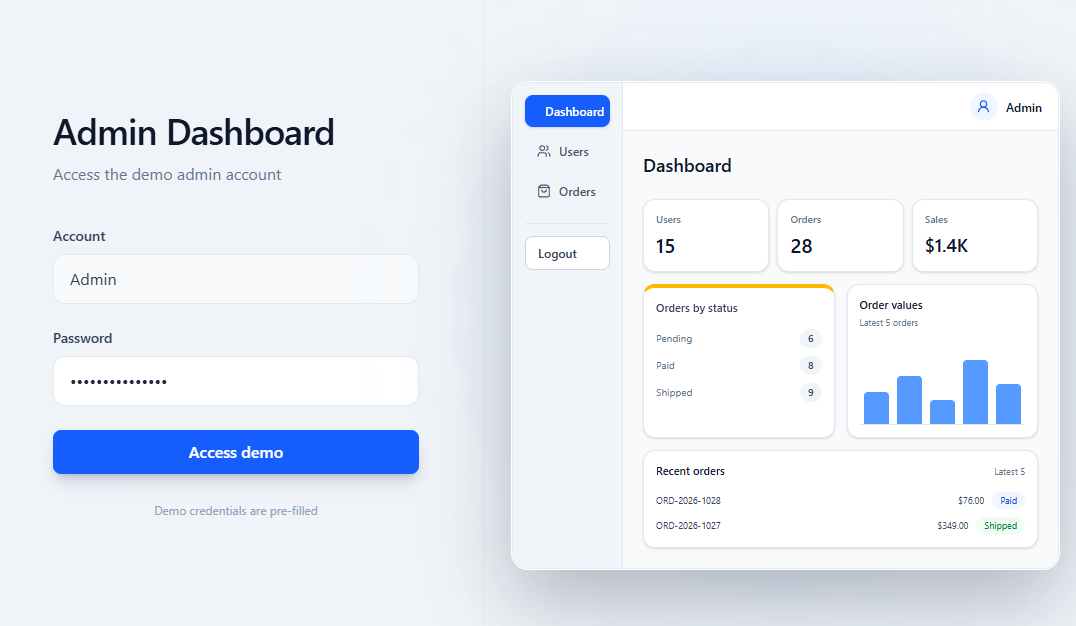
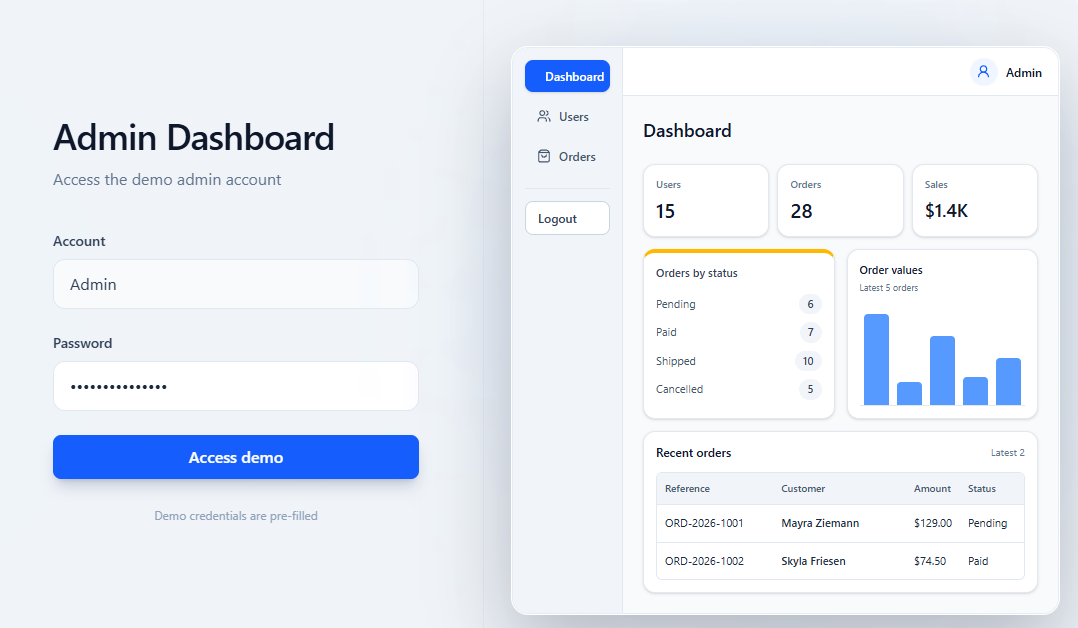
feat: refine dashboard UI and update README

diff --git a/app/(dashboard)/dashboard/page.tsx b/app/(dashboard)/dashboard/page.tsx
@@ -5,30 +5,26 @@ import OrderValueChart from "./OrderValueChart";
 
 // Displays global statistics and provides a logout action
 const page = async () => {
- 
-
-
-const [recentOrders, usersCount, orderStats] = await Promise.all([
-  prisma.order.findMany({
-    take: 5,
-    orderBy: [{ createdAt: "desc" }, { id: "desc" }],
-    include: {
-      user: {
-        select: {
-          email: true,
+  const [recentOrders, usersCount, orderStats] = await Promise.all([
+    prisma.order.findMany({
+      take: 5,
+      orderBy: [{ createdAt: "desc" }, { id: "desc" }],
+      include: {
+        user: {
+          select: {
+            name: true,
+            email: true,
+          },
         },
       },
-    },
-  }),
-  prisma.user.count(),
-  prisma.order.groupBy({
-    by: ["status"],
-    _count: { status: true },
-    _sum: { amountCents: true },
-  }),
-]);
-
-
+    }),
+    prisma.user.count(),
+    prisma.order.groupBy({
+      by: ["status"],
+      _count: { status: true },
+      _sum: { amountCents: true },
+    }),
+  ]);
 
   const ordersCount = orderStats.reduce(
     (total, item) => total + item._count.status,
@@ -47,23 +43,21 @@ const [recentOrders, usersCount, orderStats] = await Promise.all([
   }).format(paidSalesCents / 100);
 
   // Values of the latest orders for the chart
- const orderValues = [...recentOrders]
-  .reverse()
-  .map((order) => ({
-    reference: order.reference.replace("ORD-SEED-", "#"),
+  const orderValues = [...recentOrders].reverse().map((order) => ({
+    reference: order.reference,
     amount: (order.amountCents ?? 0) / 100,
   }));
 
   // Keep statuses in workflow order
-  const statusOrder = ["pending", "paid", "shipped"];
+  const statusOrder = ["pending", "paid", "shipped", "cancelled"];
 
   ordersByStatus.sort(
     (a, b) => statusOrder.indexOf(a.status) - statusOrder.indexOf(b.status),
   );
 
   return (
-    <div className="fade-in-up">
-      <h1 className="mb-8 text-3xl font-bold tracking-tight text-gray-800">
+    <div className="fade-in-up lg:ml-8">
+     <h1 className="mb-6 text-2xl font-bold tracking-tight text-slate-950">
         Dashboard
       </h1>
 
@@ -73,7 +67,7 @@ const [recentOrders, usersCount, orderStats] = await Promise.all([
         <div className="rounded-xl border border-slate-200 bg-white p-5 shadow-sm">
           <div className="flex items-center justify-between">
             <div>
-              <p className="text-sm font-medium text-slate-500">Users</p>
+              <p className="text-base font-medium text-slate-500">Users</p>
               <p className="mt-2 text-2xl font-semibold text-slate-900">
                 {usersCount}
               </p>
@@ -89,7 +83,7 @@ const [recentOrders, usersCount, orderStats] = await Promise.all([
         <div className="rounded-xl border border-slate-200 bg-white p-5 shadow-sm">
           <div className="flex items-center justify-between">
             <div>
-              <p className="text-sm font-medium text-slate-500">Orders</p>
+              <p className="text-base font-medium text-slate-500">Orders</p>
               <p className="mt-2 text-2xl font-semibold text-slate-900">
                 {ordersCount}
               </p>
@@ -105,7 +99,7 @@ const [recentOrders, usersCount, orderStats] = await Promise.all([
         <div className="rounded-xl border border-slate-200 bg-white p-5 shadow-sm">
           <div className="flex items-center justify-between">
             <div>
-              <p className="text-sm font-medium text-slate-500">Sales</p>
+              <p className="text-base font-medium text-slate-500">Sales</p>
               <p className="mt-2 text-2xl font-semibold text-slate-900">
                 {sales}
               </p>
@@ -121,7 +115,7 @@ const [recentOrders, usersCount, orderStats] = await Promise.all([
       {/* Orders breakdown by status */}
       <div className="grid max-w-4xl gap-6 lg:grid-cols-2">
         <div className="rounded-xl  border border-slate-200 border-t-4 border-t-amber-400 bg-white p-5 shadow-sm">
-          <h2 className="text-sm font-semibold text-slate-700">
+          <h2 className="text-xl font-semibold text-slate-900">
             Orders by status
           </h2>
 
@@ -131,11 +125,11 @@ const [recentOrders, usersCount, orderStats] = await Promise.all([
                 key={item.status}
                 className="flex items-center justify-between"
               >
-                <span className="text-sm font-medium capitalize text-slate-600">
+                <span className="text-base font-medium capitalize text-slate-600">
                   {item.status}
                 </span>
 
-                <span className="flex min-w-8 items-center justify-center rounded-full bg-slate-100 px-2.5 py-1 text-sm font-semibold text-slate-700">
+                <span className="flex min-w-8 items-center justify-center rounded-full bg-slate-100 px-2.5 py-1 text-base font-semibold text-slate-700">
                   {item._count.status}
                 </span>
               </div>
@@ -145,7 +139,7 @@ const [recentOrders, usersCount, orderStats] = await Promise.all([
         {/* Order values chart */}
         <div className="rounded-xl border border-slate-200 bg-white p-5 shadow-sm">
           <div className="mb-5">
-            <h2 className="text-base font-semibold text-slate-900">
+            <h2 className="text-xl font-semibold text-slate-900">
               Order values
             </h2>
             <p className="mt-1 text-sm text-slate-500">Latest 5 orders</p>
@@ -158,52 +152,47 @@ const [recentOrders, usersCount, orderStats] = await Promise.all([
       {/* Recent orders */}
       <div className="mt-6 max-w-4xl rounded-xl border border-slate-200 bg-white p-5 shadow-sm">
         <div className="mb-4 flex items-center justify-between">
-          <h2 className="text-base font-semibold text-slate-900">
+          <h2 className="text-xl font-semibold text-slate-900">
             Recent orders
           </h2>
 
           <span className="text-sm text-slate-500">Latest 5</span>
         </div>
 
-        <div className="divide-y divide-slate-100">
-          {recentOrders.map((order) => (
-            <div
-              key={order.id}
-              className="grid items-center gap-4 py-3 text-sm md:grid-cols-[140px_1fr_100px_100px]"
-            >
-              {/* Reference */}
-              <span className="font-medium text-slate-800">
-                {order.reference}
-              </span>
+        <div className="overflow-hidden rounded-lg border border-slate-200">
+          <div className="hidden grid-cols-[1fr_1.5fr_0.8fr_0.8fr] gap-4 border-b border-slate-200 bg-slate-100 px-4 py-3 text-[15px] font-semibold text-slate-600 md:grid">
+            <span>Reference</span>
+            <span>Customer</span>
+            <span>Amount</span>
+            <span>Status</span>
+          </div>
 
-              {/* Customer */}
-              <span className="truncate text-slate-600">
-                {order.user.email}
-              </span>
+          <div className="divide-y divide-slate-200">
+            {recentOrders.map((order) => (
+              <div
+                key={order.id}
+                className="grid grid-cols-2 items-center gap-4 px-4 py-4 text-base md:grid-cols-[1fr_1.5fr_0.8fr_0.8fr]"
+              >
+                <span className="break-words font-medium text-slate-800">
+                  {order.reference}
+                </span>
 
-              {/* Amount */}
-              <span className="text-slate-700">
-                {order.amountCents === null
-                  ? "Not set"
-                  : `$${(order.amountCents / 100).toFixed(2)}`}
-              </span>
+                <span className="min-w-0 break-words font-medium text-slate-800">
+                  {order.user.name?.trim() || order.user.email}
+                </span>
 
-              {/* Status */}
-              <div className="flex justify-center">
-                <span
-                  className={`w-fit rounded-full px-3 py-1 text-xs font-medium capitalize ${
-                    order.status === "pending"
-                      ? "bg-amber-50 text-amber-700"
-                      : order.status === "paid"
-                        ? "bg-blue-50 text-blue-700"
-                        : "bg-green-50 text-green-700"
-                  }`}
-                >
+                <span className="text-slate-700">
+                  {order.amountCents === null
+                    ? "Not set"
+                    : `$${(order.amountCents / 100).toFixed(2)}`}
+                </span>
+
+                <span className="font-medium capitalize text-slate-700">
                   {order.status}
                 </span>
               </div>
-            </div>
-          ))}
+            ))}
+          </div>
         </div>
       </div>
     </div>

diff --git a/app/login/page.tsx b/app/login/page.tsx
@@ -186,27 +186,23 @@ export default async function Page({
                         Orders by status
                       </p>
 
-                      <div className="mt-3 space-y-2 text-[10px]">
-                        <div className="flex items-center justify-between">
-                          <span className="text-slate-500">Pending</span>
-                          <span className="rounded-full bg-slate-100 px-2 py-0.5 font-medium text-slate-700">
-                            6
-                          </span>
-                        </div>
-
-                        <div className="flex items-center justify-between">
-                          <span className="text-slate-500">Paid</span>
-                          <span className="rounded-full bg-slate-100 px-2 py-0.5 font-medium text-slate-700">
-                            8
-                          </span>
-                        </div>
-
-                        <div className="flex items-center justify-between">
-                          <span className="text-slate-500">Shipped</span>
-                          <span className="rounded-full bg-slate-100 px-2 py-0.5 font-medium text-slate-700">
-                            9
-                          </span>
-                        </div>
+                      <div className="mt-3 space-y-2 text-[11px]">
+                        {[
+                          { status: "Pending", count: 6 },
+                          { status: "Paid", count: 7 },
+                          { status: "Shipped", count: 10 },
+                          { status: "Cancelled", count: 5 },
+                        ].map(({ status, count }) => (
+                          <div
+                            key={status}
+                            className="flex items-center justify-between"
+                          >
+                            <span className="text-slate-600">{status}</span>
+                            <span className="rounded-full bg-slate-100 px-2 py-0.5 font-medium text-slate-700">
+                              {count}
+                            </span>
+                          </div>
+                        ))}
                       </div>
                     </div>
 
@@ -218,45 +214,46 @@ export default async function Page({
                         Latest 5 orders
                       </p>
 
-                      <div className="mt-4 flex h-20 items-end gap-2 border-b border-slate-200 px-1">
-                        <div className="h-8 flex-1 rounded-t bg-blue-500/80" />
-                        <div className="h-12 flex-1 rounded-t bg-blue-500/80" />
-                        <div className="h-6 flex-1 rounded-t bg-blue-500/80" />
-                        <div className="h-16 flex-1 rounded-t bg-blue-500/80" />
-                        <div className="h-10 flex-1 rounded-t bg-blue-500/80" />
+                      <div className="mt-4 flex h-24 items-end gap-2 border-b border-slate-200 px-1">
+                        <div className="h-[96%] flex-1 rounded-t bg-blue-500/80" />
+                        <div className="h-[24%] flex-1 rounded-t bg-blue-500/80" />
+                        <div className="h-[73%] flex-1 rounded-t bg-blue-500/80" />
+                        <div className="h-[29%] flex-1 rounded-t bg-blue-500/80" />
+                        <div className="h-[50%] flex-1 rounded-t bg-blue-500/80" />
                       </div>
                     </div>
                   </div>
 
                   <div className="mt-3 rounded-xl border border-slate-200 bg-white p-3 shadow-sm">
                     <div className="flex items-center justify-between">
-                      <p className="text-[11px] font-semibold text-slate-900">
+                      <p className="text-xs font-semibold text-slate-900">
                         Recent orders
                       </p>
-                      <span className="text-[9px] text-slate-500">
-                        Latest 5
+                      <span className="text-[10px] text-slate-500">
+                        Latest 2
                       </span>
                     </div>
 
-                    <div className="mt-3 space-y-2 text-[9px]">
-                      <div className="grid grid-cols-[1fr_auto_auto] items-center gap-2">
-                        <span className="truncate text-slate-700">
-                          ORD-2026-1028
-                        </span>
-                        <span className="text-slate-600">$76.00</span>
-                        <span className="rounded-full bg-blue-50 px-2 py-0.5 text-blue-700">
-                          Paid
-                        </span>
+                    <div className="mt-3 overflow-hidden rounded-md border border-slate-200">
+                      <div className="grid grid-cols-[minmax(0,1fr)_minmax(0,1.15fr)_48px_48px] items-center gap-1.5 bg-slate-100 px-2 py-2 text-[10px] font-semibold text-slate-600">
+                        <span>Reference</span>
+                        <span>Customer</span>
+                        <span>Amount</span>
+                        <span>Status</span>
                       </div>
 
-                      <div className="grid grid-cols-[1fr_auto_auto] items-center gap-2">
-                        <span className="truncate text-slate-700">
-                          ORD-2026-1027
-                        </span>
-                        <span className="text-slate-600">$349.00</span>
-                        <span className="rounded-full bg-green-50 px-2 py-0.5 text-green-700">
-                          Shipped
-                        </span>
+                      <div className="grid grid-cols-[minmax(0,1fr)_minmax(0,1.15fr)_48px_48px] items-center gap-1.5 border-t border-slate-200 px-2 py-2.5 text-[11px] text-slate-800">
+                        <span className="break-words">ORD-2026-1001</span>
+                        <span className="font-medium">Mayra Ziemann</span>
+                        <span>$129.00</span>
+                        <span>Pending</span>
+                      </div>
+
+                      <div className="grid grid-cols-[minmax(0,1fr)_minmax(0,1.15fr)_48px_48px] items-center gap-1.5 border-t border-slate-200 px-2 py-2.5 text-[11px] text-slate-800">
+                        <span className="break-words">ORD-2026-1002</span>
+                        <span className="font-medium">Skyla Friesen</span>
+                        <span>$74.50</span>
+                        <span>Paid</span>
                       </div>
                     </div>
                   </div>

diff --git a/app/(dashboard)/dashboard/page.test.tsx b/app/(dashboard)/dashboard/page.test.tsx
@@ -111,6 +111,7 @@ test("displays recent orders", async () => {
       amountCents: 3490,
       status: "shipped",
       user: {
+        name: "Jack Doe",
         email: "jack.doe@example.com",
       },
     },
@@ -120,6 +121,6 @@ test("displays recent orders", async () => {
 
   expect(screen.getByText("Recent orders")).toBeInTheDocument();
   expect(screen.getByText("ORD-SEED-005")).toBeInTheDocument();
-  expect(screen.getByText("jack.doe@example.com")).toBeInTheDocument();
+  expect(screen.getByText("Jack Doe")).toBeInTheDocument();
   expect(screen.getByText("$34.90")).toBeInTheDocument();
 });

diff --git a/app/(dashboard)/dashboard/OrderValueChart.tsx b/app/(dashboard)/dashboard/OrderValueChart.tsx
@@ -25,12 +25,7 @@ export default function OrderValueChart({
       <BarChart data={data}>
         <CartesianGrid vertical={false} strokeDasharray="3 3" />
 
-        <XAxis
-          dataKey="reference"
-          tickLine={false}
-          axisLine={false}
-          fontSize={11}
-        />
+       <XAxis dataKey="reference" hide />
 
         <YAxis
           tickLine={false}

diff --git a/README.md b/README.md
@@ -16,8 +16,8 @@ Admin dashboard built with Next.js, TypeScript, Prisma and PostgreSQL for managi
 
 - **Dashboard:** User and order statistics, sales metrics, order status distribution and recent orders.
 - **Authentication:** Auth.js credentials authentication, bcrypt password hashing, protected routes and Server Actions, and logout.
-- **Users:** Creation, deletion, role management, search, filtering, sorting and server-side pagination.
-- **Orders:** Creation, deletion, detail pages, status updates, search, filtering, sorting, pagination, bulk actions and status history.
+- **Users:** Create users with required names, manage roles directly from the table, search by name or email, filter, sort, paginate and confirm deletions.
+- **Orders:** Create orders through a dialog, display customer names, search by name or email, update statuses directly, filter, sort, paginate, manage bulk actions and view order details with status history.
 - **Health Check:** API endpoint for checking the PostgreSQL database connection.
 
 ### Order Workflow
